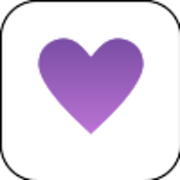
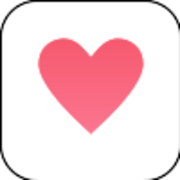
update

Changed region(s): [[0.1944, 0.1944, 0.8056, 0.75]]

diff --git a/css/style.css b/css/style.css
@@ -34,7 +34,7 @@ body {
     position: relative;
     width: 100%;
     height: 100%;
-    background: linear-gradient(135deg, #667eea 0%, #764ba2 100%);
+    background: linear-gradient(135deg, #ff6b9d 0%, #f5576c 100%);
     border-radius: 20px;
     box-shadow: 0 20px 60px rgba(0, 0, 0, 0.3);
     display: flex;
@@ -67,7 +67,7 @@ body {
     left: 0;
     width: 100%;
     height: 50%;
-    background: linear-gradient(135deg, #764ba2 0%, #667eea 100%);
+    background: linear-gradient(135deg, #f5576c 0%, #ff6b9d 100%);
     border-radius: 20px 20px 0 0;
     transform-origin: top;
     transition: transform 1s ease-in-out;
@@ -333,7 +333,7 @@ body {
     left: 0;
     right: 0;
     bottom: 0;
-    background: linear-gradient(135deg, #667eea 0%, #764ba2 50%, #f093fb 100%);
+    background: linear-gradient(135deg, #ff6b9d 0%, #f5576c 50%, #ff8fab 100%);
     opacity: 0.05;
     z-index: 0;
 }
@@ -382,7 +382,7 @@ body {
     font-family: 'Playfair Display', serif;
     font-size: 3.5rem;
     font-weight: 700;
-    color: #667eea;
+    color: #ff6b9d;
     margin-bottom: 20px;
     letter-spacing: 2px;
     line-height: 1.6;
@@ -398,7 +398,7 @@ body {
 
 .name-connector {
     font-size: 2.5rem;
-    color: #e91e63;
+    color: #ff6b9d;
     font-weight: 400;
     margin: 5px 0;
     animation: pulse 2s infinite;
@@ -407,7 +407,7 @@ body {
 .getting-married {
     font-family: 'Dancing Script', cursive;
     font-size: 2rem;
-    color: #764ba2;
+    color: #f5576c;
     margin: 20px 0;
     font-weight: 600;
     letter-spacing: 3px;
@@ -419,7 +419,7 @@ body {
     font-family: 'Playfair Display', serif;
     font-size: 3rem;
     font-weight: 600;
-    color: #667eea;
+    color: #ff6b9d;
     margin-top: 30px;
     letter-spacing: 4px;
 }
@@ -486,7 +486,7 @@ body {
     font-family: 'Dancing Script', cursive;
     font-size: 3.2rem;
     font-weight: 600;
-    color: #667eea;
+    color: #ff6b9d;
     margin: 0;
     letter-spacing: 2px;
     text-align: right;
@@ -499,7 +499,7 @@ body {
     font-family: 'Dancing Script', cursive;
     font-size: 3.2rem;
     font-weight: 600;
-    color: #667eea;
+    color: #ff6b9d;
     margin: 0;
     letter-spacing: 2px;
     text-align: left;
@@ -510,7 +510,7 @@ body {
 
 .divider-line {
     font-size: 2rem;
-    color: #764ba2;
+    color: #f5576c;
     font-weight: 300;
     opacity: 0.4;
     flex-shrink: 0;
@@ -521,7 +521,7 @@ body {
     font-family: 'Playfair Display', serif;
     font-size: 2rem;
     font-weight: 600;
-    color: #764ba2;
+    color: #f5576c;
     margin-top: 20px;
     letter-spacing: 3px;
 }
@@ -547,7 +547,7 @@ body {
 }
 
 .image-placeholder:hover {
-    border-color: #667eea;
+    border-color: #ff6b9d;
     background: linear-gradient(135deg, #f0f0f0 0%, #e8e8e8 100%);
     transform: scale(1.02);
 }
@@ -584,14 +584,14 @@ body {
 
 .countdown-box:hover {
     transform: translateY(-5px);
-    box-shadow: 0 15px 40px rgba(102, 126, 234, 0.2);
+    box-shadow: 0 15px 40px rgba(255, 107, 157, 0.2);
 }
 
 .countdown-time {
     font-family: 'Playfair Display', serif;
     font-size: 3.5rem;
     font-weight: 700;
-    color: #667eea;
+    color: #ff6b9d;
     line-height: 1;
     margin-bottom: 10px;
 }
@@ -648,13 +648,13 @@ body {
     font-family: 'Dancing Script', cursive;
     font-size: 2.5rem;
     font-weight: 600;
-    color: #667eea;
+    color: #ff6b9d;
     margin-bottom: 15px;
 }
 
 .couple-divider {
     font-size: 1.5rem;
-    color: #764ba2;
+    color: #f5576c;
     opacity: 0.6;
     margin: 0;
 }
@@ -686,7 +686,7 @@ body {
     left: -20px;
     right: -20px;
     bottom: -20px;
-    border: 3px solid rgba(102, 126, 234, 0.3);
+    border: 3px solid rgba(255, 107, 157, 0.3);
     border-radius: 25px;
     pointer-events: none;
     z-index: -1;
@@ -695,7 +695,7 @@ body {
 /* Love Quote Section */
 .love-quote-section {
     padding: 60px 20px;
-    background: linear-gradient(135deg, #667eea 0%, #764ba2 100%);
+    background: linear-gradient(135deg, #ff6b9d 0%, #f5576c 100%);
     text-align: center;
 }
 
@@ -727,7 +727,7 @@ body {
     background: linear-gradient(135deg, #ffffff 0%, #f8f9fa 100%);
     border-radius: 30px;
     box-shadow: 0 15px 40px rgba(0, 0, 0, 0.08);
-    border: 1px solid rgba(102, 126, 234, 0.1);
+    border: 1px solid rgba(255, 107, 157, 0.1);
 }
 
 .invitation-text {
@@ -759,21 +759,21 @@ body {
     box-shadow: 0 15px 40px rgba(0, 0, 0, 0.08);
     text-align: center;
     transition: transform 0.3s ease, box-shadow 0.3s ease;
-    border: 1px solid rgba(102, 126, 234, 0.1);
+    border: 1px solid rgba(255, 107, 157, 0.1);
 }
 
 .family-card:hover {
     transform: translateY(-10px);
-    box-shadow: 0 25px 50px rgba(102, 126, 234, 0.2);
+    box-shadow: 0 25px 50px rgba(255, 107, 157, 0.2);
 }
 
 .family-title {
     font-family: 'Playfair Display', serif;
     font-size: 2rem;
-    color: #667eea;
+    color: #ff6b9d;
     margin-bottom: 30px;
     padding-bottom: 15px;
-    border-bottom: 2px solid #667eea;
+    border-bottom: 2px solid #ff6b9d;
 }
 
 .family-content {
@@ -788,7 +788,7 @@ body {
 }
 
 .family-member strong {
-    color: #764ba2;
+    color: #f5576c;
     font-weight: 600;
 }
 
@@ -820,14 +820,14 @@ body {
     font-family: 'Playfair Display', serif;
     font-size: 2.5rem;
     text-align: center;
-    color: #667eea;
+    color: #ff6b9d;
     margin: 0;
     flex: 1;
 }
 
 .close-album-btn {
     padding: 12px 30px;
-    background: linear-gradient(135deg, #667eea 0%, #764ba2 100%);
+    background: linear-gradient(135deg, #ff6b9d 0%, #f5576c 100%);
     color: white;
     border: none;
     border-radius: 25px;
@@ -835,13 +835,13 @@ body {
     font-weight: 600;
     cursor: pointer;
     transition: transform 0.3s ease, box-shadow 0.3s ease;
-    box-shadow: 0 5px 15px rgba(102, 126, 234, 0.3);
+    box-shadow: 0 5px 15px rgba(255, 107, 157, 0.3);
     font-family: 'Noto Serif TC', serif;
 }
 
 .close-album-btn:hover {
     transform: translateY(-2px);
-    box-shadow: 0 8px 20px rgba(102, 126, 234, 0.4);
+    box-shadow: 0 8px 20px rgba(255, 107, 157, 0.4);
 }
 
 .close-album-btn.hidden {
@@ -870,7 +870,7 @@ body {
 
 .album-cover:hover .album-preview {
     transform: translateY(-5px) scale(1.02);
-    box-shadow: 0 20px 50px rgba(102, 126, 234, 0.3);
+    box-shadow: 0 20px 50px rgba(255, 107, 157, 0.3);
 }
 
 .album-stack {
@@ -941,7 +941,7 @@ body {
     left: 0;
     right: 0;
     bottom: 0;
-    background: linear-gradient(135deg, rgba(102, 126, 234, 0.85) 0%, rgba(118, 75, 162, 0.85) 100%);
+    background: linear-gradient(135deg, rgba(255, 107, 157, 0.85) 0%, rgba(245, 87, 108, 0.85) 100%);
     display: flex;
     flex-direction: column;
     align-items: center;
@@ -1010,7 +1010,7 @@ body {
 
 .gallery-item:hover {
     transform: translateY(-8px) scale(1.02);
-    box-shadow: 0 15px 40px rgba(102, 126, 234, 0.3);
+    box-shadow: 0 15px 40px rgba(255, 107, 157, 0.3);
 }
 
 .gallery-img {
@@ -1037,7 +1037,7 @@ body {
 /* Footer */
 .footer {
     padding: 60px 20px;
-    background: linear-gradient(135deg, #667eea 0%, #764ba2 100%);
+    background: linear-gradient(135deg, #ff6b9d 0%, #f5576c 100%);
     text-align: center;
     color: white;
 }
